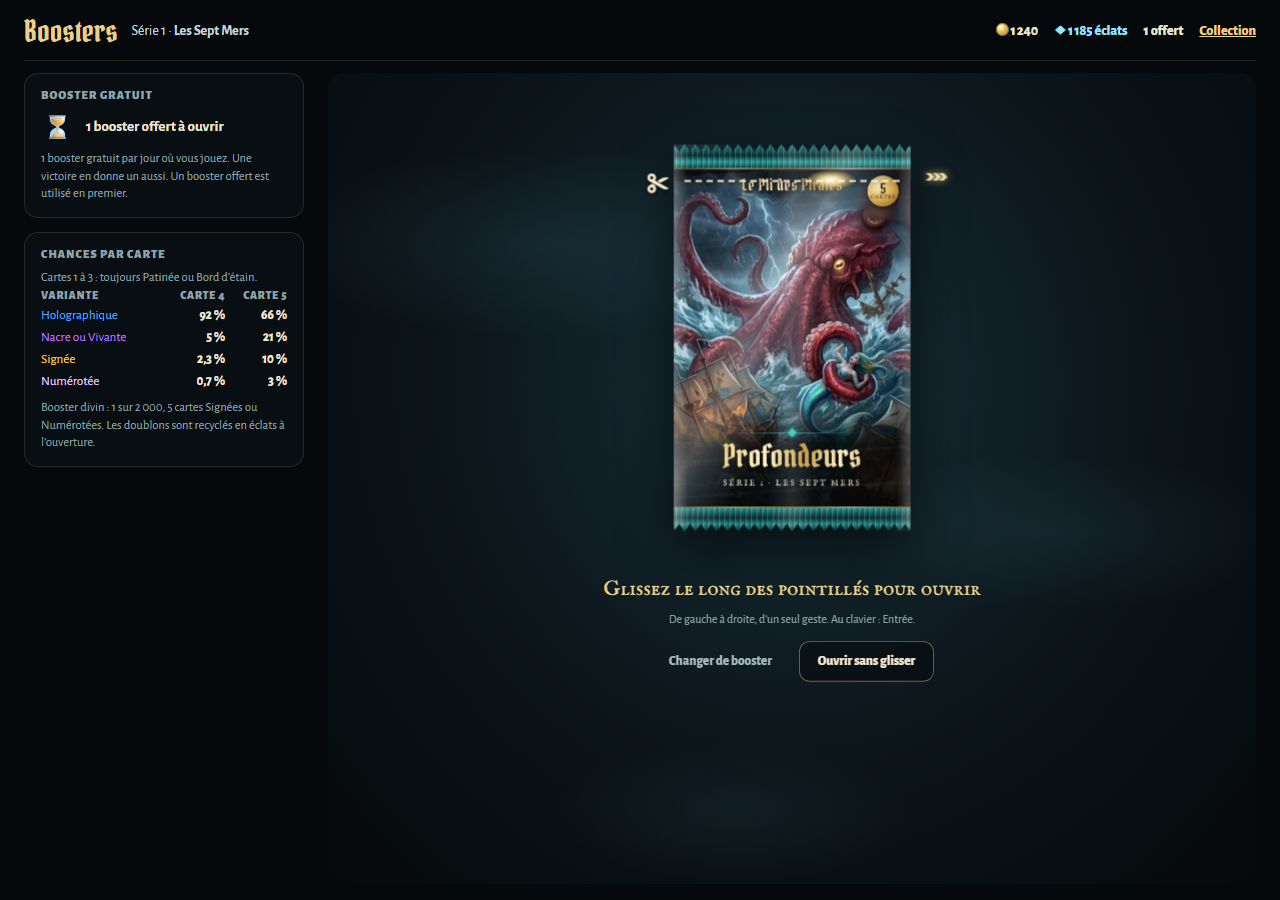
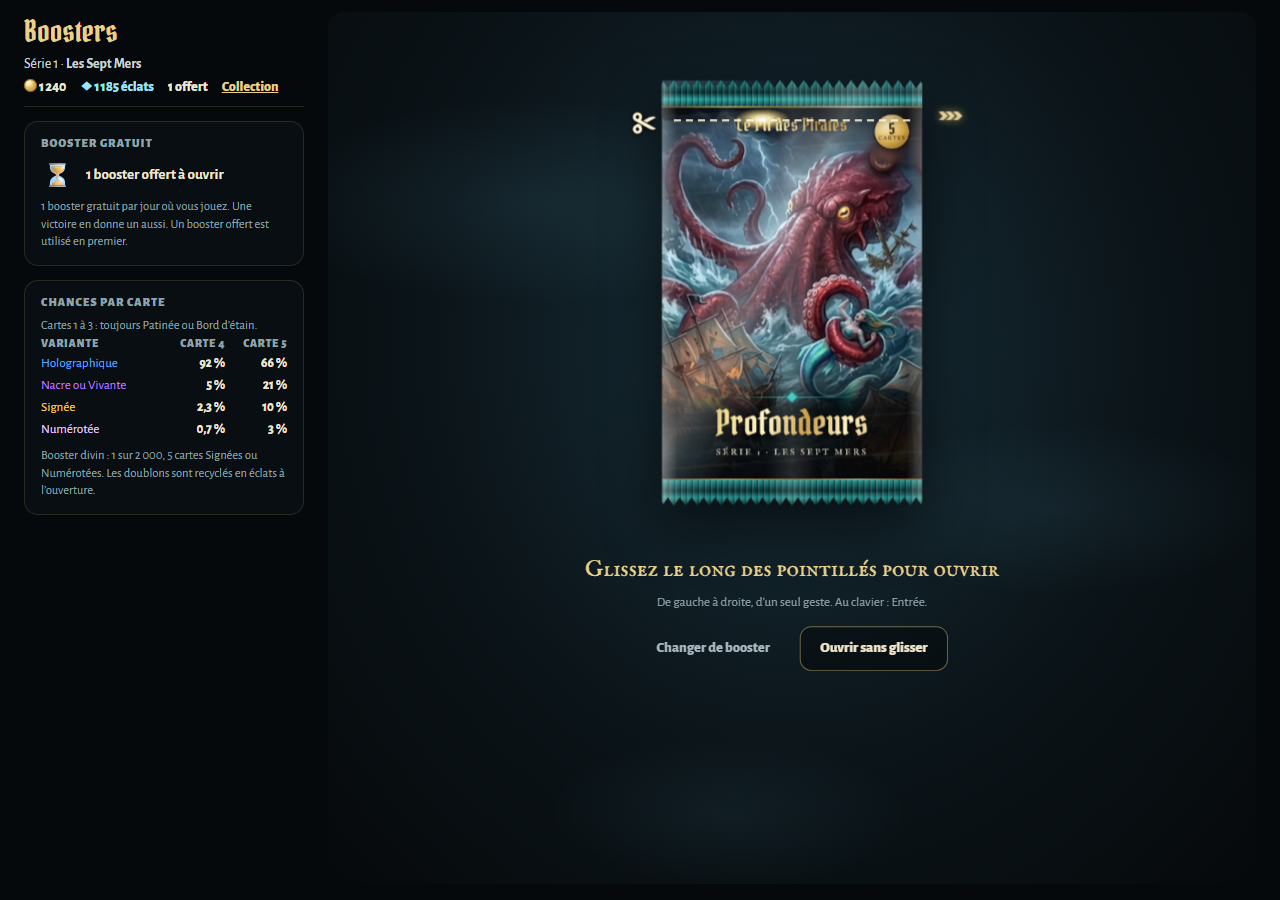
Boosters : son de déchirure, sachets plus grands, animation complète malgré le réglage système
- son : vraie déchirure de papier (craquements sur 0,5 s) au lieu d'une bouffée grave « ballon qui éclate » ; frottement pour retourner la 5e carte ; crissement qui suit la coupe tous les 10 %
- taille : sur grand écran, titre et porte-monnaie dans la colonne de gauche, le composant prend toute la hauteur ; scène mise à l'échelle sans marge (sachet +11 %)
- le composant ne lit plus prefers-reduced-motion (animations de Windows coupées = ouverture escamotée) : attribut reduce posé par le jeu
- Casier, onglet Cartes (sous les dos) : « Ouverture des boosters réduite » (fondu) et « Animations des autres », de nouveau visible depuis que la rubrique des cartes animées est masquée
- tests : réglage système ignoré, réglage du Casier en fondu

diff --git a/web/src/booster/booster-opening.js b/web/src/booster/booster-opening.js
@@ -136,10 +136,11 @@ button{font-family:inherit}
 .tilt .glare{position:absolute;inset:0;border-radius:4%;pointer-events:none;background:radial-gradient(circle at var(--mx) var(--my),rgba(255,255,255,.28),transparent 45%);mix-blend-mode:overlay;opacity:0;transition:opacity .2s}
 .tilt.on .glare{opacity:1}
 .dcard .num{position:absolute;left:81%;top:13.2%;transform:translate(-50%,-50%);font-family:'Pirata One',cursive;font-size:calc(var(--w)*.13);color:#fff4d6;text-shadow:0 0 3px #000}
-@media (prefers-reduced-motion: reduce){.float,.foil,.caus,.grays,.hid .flip,.hid .face.back,.runner,.chev,.dcard .sh{animation:none!important}.flash.go{animation:none}}
-/* mouvement réduit (ajout de l'intégration au jeu) : l'ouverture devient un simple fondu de 300 ms (later() plafonne déjà les attentes à 300 ms) ;
+:host([reduce]) .float,:host([reduce]) .foil,:host([reduce]) .caus,:host([reduce]) .grays,:host([reduce]) .hid .flip,:host([reduce]) .hid .face.back,:host([reduce]) .runner,:host([reduce]) .chev,:host([reduce]) .dcard .sh{animation:none!important}:host([reduce]) .flash.go{animation:none}
+/* mouvement réduit (ajout de l'intégration au jeu) : attribut reduce posé par le jeu (réglage du Casier), le réglage du système est ignoré ;
+   l'ouverture devient un simple fondu de 300 ms (later() plafonne déjà les attentes à 300 ms) ;
    ni bande qui s'envole, ni lumière, ni rayons, ni pile qui monte, ni éclats : rien ne bouge ni ne tourne */
-@media (prefers-reduced-motion: reduce){.opening .lid,.opening .leak,.opening .lrays,.opening.in,.gsp,.stk.rise,.pop,.burst.go,.ring.go,.spark,.ban,.gc,.bar>div{animation:none!important}.opening.in{opacity:0;transition:opacity .3s}.stk.rise{animation:fi .3s ease-out both!important}.tilt{transform:none!important}}
+:host([reduce]) .opening .lid,:host([reduce]) .opening .leak,:host([reduce]) .opening .lrays,:host([reduce]) .opening.in,:host([reduce]) .gsp,:host([reduce]) .stk.rise,:host([reduce]) .pop,:host([reduce]) .burst.go,:host([reduce]) .ring.go,:host([reduce]) .spark,:host([reduce]) .ban,:host([reduce]) .gc,:host([reduce]) .bar>div{animation:none!important}:host([reduce]) .opening.in{opacity:0;transition:opacity .3s}:host([reduce]) .stk.rise{animation:fi .3s ease-out both!important}:host([reduce]) .tilt{transform:none!important}
 `;
 
 const RC = { c: 'rgba(255,244,214,.9)', r: '#4fa8ff', e: '#b77dff', l: '#ffc94a', m: '#e7c6ff' };
@@ -149,7 +150,7 @@ const BURST = {
   l: 'radial-gradient(circle,rgba(255,201,74,.8),transparent 58%)', m: 'radial-gradient(circle,rgba(231,198,255,.75),rgba(155,231,255,.4) 30%,transparent 58%)'
 };
 const h = (tag, cls, html) => { const e = document.createElement(tag); if (cls) e.className = cls; if (html != null) e.innerHTML = html; return e; };
-const reduced = () => window.matchMedia && matchMedia('(prefers-reduced-motion: reduce)').matches;
+// mouvement réduit : attribut reduce, posé par l'application (le réglage du système n'est pas lu ici)
 
 class BoosterOpening extends HTMLElement {
   constructor() {
@@ -168,8 +169,9 @@ class BoosterOpening extends HTMLElement {
     this.renderChoose();
   }
   disconnectedCallback() { this.clear(); this.ro && this.ro.disconnect(); }
-  resize() { const r = this.getBoundingClientRect(), s = Math.min(1.25, r.width / 700, r.height / 920); this.fit.style.transform = `translate(-50%,-50%) scale(${s})`; }
-  later(ms, f) { const k = this.k; this.timers.push(setTimeout(() => { if (this.k === k) f(); }, reduced() ? Math.min(ms, 300) : ms)); }
+  // mise à l'échelle (intégration au jeu) : la scène de 680 × 900 remplit le conteneur sans marge, pour des sachets plus grands
+  resize() { const r = this.getBoundingClientRect(), s = Math.min(1.25, r.width / 680, r.height / 900); this.fit.style.transform = `translate(-50%,-50%) scale(${s})`; }
+  later(ms, f) { const k = this.k; this.timers.push(setTimeout(() => { if (this.k === k) f(); }, this.hasAttribute('reduce') ? Math.min(ms, 300) : ms)); }
   clear() { this.timers.forEach(clearTimeout); this.timers = []; this.k = (this.k || 0) + 1; }
 
   // ---------- rendu d'une carte ----------
@@ -281,7 +283,7 @@ class BoosterOpening extends HTMLElement {
     this.top = 0; this.buildStack(true);
     this.later(1950, () => { this.car.remove(); this.stk.classList.remove('rise'); this.stk.style.zIndex = ''; this.phase = 'stack'; this.showTop(true); });
   }
-  flash() { if (reduced()) return; const f = h('div', 'flash'); this.fit.appendChild(f); void f.offsetWidth; f.classList.add('go'); setTimeout(() => f.remove(), 600); }
+  flash() { if (this.hasAttribute('reduce')) return; const f = h('div', 'flash'); this.fit.appendChild(f); void f.offsetWidth; f.classList.add('go'); setTimeout(() => f.remove(), 600); }
 
   // ---------- 4. pile ----------
   buildStack(rising) {

diff --git a/web/src/pages/casier.ts b/web/src/pages/casier.ts
@@ -10,7 +10,7 @@ import { objectSVG } from '../objects';
 import { ART, backFace } from '../cards';
 import { ANIM, KEY_OF_FILE, attachAnim, detachAnim } from '../animatedCards';
 import { levelFor } from '../xp';
-import { RC, PLQ, RAR_NAME, owns, howText, progressOf, itemsOf, impactSound, setImpactSound, othersAnimated, setOthersAnimated, type Progress } from '../locker';
+import { RC, PLQ, RAR_NAME, owns, howText, progressOf, itemsOf, impactSound, setImpactSound, othersAnimated, setOthersAnimated, boosterReduced, setBoosterReduced, type Progress } from '../locker';
 import { setCleanup } from '../main';
 
 const DEFAULT_LOOK: Look = { skin: 1, hair: 'court', hc: 0, beard: 'none', hat: null, face: null, neck: null, pet: null, bg: 'mer', frame: null };
@@ -141,7 +141,10 @@ export async function casierPage(root: HTMLElement, uid: string, query: URLSearc
     }
     if (s === 'card_back') {
       const list = itemsOf(s).filter(it => keep(has(it))).map(it => tile(it, L().card_back === it.value, has(it), `<span class="ck-back" style="${backStyle(it.value)}">${it.bg ? '' : classic(.413)}</span>`, 'ck-it big')).join('');
-      return `<div class="ck-grid backs">${list}</div><p class="ck-note">Un seul dos à la fois. Il s'applique à toutes vos cartes face cachée ; les faces des cartes ne changent jamais, pour que tout le monde les lise pareil.</p>`;
+      return `<div class="ck-grid backs">${list}</div><p class="ck-note">Un seul dos à la fois. Il s'applique à toutes vos cartes face cachée ; les faces des cartes ne changent jamais, pour que tout le monde les lise pareil.</p>
+        <div class="lbl">Réglages · sur cet appareil</div>
+        <div class="ck-sets"><div class="ck-set"><div><b>Animations des autres</b><span class="lbl">Coupez-les si la partie rame sur votre appareil</span></div><button type="button" class="ck-switch${othersAnimated() ? ' on' : ''}" role="switch" aria-checked="${othersAnimated()}" data-set="oth" aria-label="Voir les animations des autres joueurs"></button></div>
+        <div class="ck-set"><div><b>Ouverture des boosters réduite</b><span class="lbl">Un simple fondu, sans mouvement ni flash</span></div><button type="button" class="ck-switch${boosterReduced() ? ' on' : ''}" role="switch" aria-checked="${boosterReduced()}" data-set="boost" aria-label="Ouverture des boosters réduite"></button></div></div>`;
     }
     if (s === 'card_anim') {
       const prevKey = st.animPrev ?? (L().card_anims[0] || animOwned[0]);
@@ -241,7 +244,7 @@ export async function casierPage(root: HTMLElement, uid: string, query: URLSearc
       st.animPrev = v; change();
     });
     root.querySelectorAll<HTMLButtonElement>('[data-set]').forEach(b => b.onclick = () => {
-      if (b.dataset.set === 'son') setImpactSound(!impactSound()); else setOthersAnimated(!othersAnimated());
+      if (b.dataset.set === 'son') setImpactSound(!impactSound()); else if (b.dataset.set === 'boost') setBoosterReduced(!boosterReduced()); else setOthersAnimated(!othersAnimated());
       render();
     });
     const say = (t: string) => { st.say = t; render(); clearTimeout(sayTimer); sayTimer = setTimeout(() => { st.say = null; if (st.slot === 'reaction') render(); }, 2600); };

diff --git a/web/src/booster.ts b/web/src/booster.ts
@@ -10,6 +10,7 @@ import { esc, toast } from './util';
 import { cardHTML } from './cards';
 import { sfx } from './sfx';
 import type { CallGame } from './pages/collection';
+import { boosterReduced } from './locker';
 import { PACKS, PACK_BY_ID, CARD_BY_ID, VARIANT_INFO, BOOSTER_PRICE, ODDS, SERIES, TIER_OF, NUMBERED_MAX, serialLabel, drawBooster, type Variant } from '@shared/collection.ts';
 
 /** Comptes qui voient le bouton « Essai gratuit » (aussi en développement, ou avec localStorage pli-debug = 1 sur l'appareil). */
@@ -44,11 +45,6 @@ function haptic(kind: 'light' | 'medium' | 'heavy') {
     navigator.vibrate?.(kind === 'light' ? 8 : kind === 'medium' ? 25 : [40, 30, 60]);
   } catch { /* pas de vibration */ }
 }
-/** Sons du composant → sfx.ts. */
-const SFX: Record<string, () => void> = {
-  crinkle: () => sfx.crinkle(), cut: () => sfx.cut(.5), tear: () => sfx.tear(), swipe: () => sfx.fwip(),
-  chime: () => sfx.reveal('r'), chord: () => sfx.reveal('e'), fanfare: () => sfx.reveal('l'),
-};
 
 /** Styles des cartes, partagés (une seule feuille construite) par toutes les cartes rendues dans le composant : ses cartes
  *  vivent dans son Shadow DOM, où game.css ne s'applique pas. Chaque carte a sa propre petite racine fantôme : nos
@@ -144,10 +140,20 @@ export async function boosterPage(root: HTMLElement, query = new URLSearchParams
       coins: w.coins, boosters: w.boosters, shards: w.shards,
       cards: d.cards.map(c => ({ ...c, serial: c.variant === 'numero' ? 1 + Math.floor(Math.random() * NUMBERED_MAX) : null, duplicate: false, shards: 0 })) });
   };
+  // animation complète, quel que soit le réglage du système ; le Casier propose « Ouverture des boosters réduite » (fondu)
+  comp.toggleAttribute('reduce', boosterReduced());
   comp.cardsBase = 'cards/';
   comp.renderCard = renderCard;
   comp.open = essai ? openEssai : openServer;
-  comp.haptics = haptic;
+  // sons du composant → sfx.ts. « tear » sert à la coupe (déchirure du papier) et au retournement de la 5e carte
+  // (frottement) ; le composant ne joue « cut » qu'au premier contact : le crissement suit le doigt grâce à la vibration
+  // légère qu'il envoie tous les 10 % de coupe
+  let cutStep = 0;
+  const SFX: Record<string, () => void> = {
+    crinkle: () => sfx.crinkle(), cut: () => { cutStep = 0; sfx.cut(0); }, tear: () => comp.phase === 'stack' ? sfx.flip() : sfx.rip(),
+    swipe: () => sfx.fwip(), chime: () => sfx.reveal('r'), chord: () => sfx.reveal('e'), fanfare: () => sfx.reveal('l'),
+  };
+  comp.haptics = (kind: 'light' | 'medium' | 'heavy') => { haptic(kind); if (kind === 'light' && comp.phase === 'focus') sfx.cut(Math.min(1, ++cutStep / 10)); };
   comp.sfx = (name: string) => SFX[name]?.();
   // inclinaison des cartes au gyroscope sur téléphone ; iOS demande la permission au premier toucher
   comp.gyro = matchMedia('(pointer: coarse)').matches;

diff --git a/tests/visual/d14b-ouverture.spec.ts b/tests/visual/d14b-ouverture.spec.ts
@@ -108,9 +108,22 @@ test('booster divin signalé discrètement : paillettes, étoiles, annonce au bu
   await expect(page.locator('booster-opening .divb')).toContainText('Booster divin · 1 sur 2 000');
 });
 
-test('mouvement réduit : l’ouverture devient un simple fondu, rien ne flotte ni ne tourne', async ({ page }) => {
+test('réglage système « réduire les animations » ignoré : ouverture complète', async ({ page }) => {
   await page.emulateMedia({ reducedMotion: 'reduce' });
   await openGame(page, 'epique');
+  await expect(page.locator('booster-opening[reduce]')).toHaveCount(0);
+  await page.locator('booster-opening .go').click(); await page.waitForTimeout(400);
+  await page.locator('booster-opening .auto').click();
+  await expect(page.locator('booster-opening .in.opening')).toHaveCount(1);
+  expect(await page.locator('booster-opening .stk').evaluate(e => getComputedStyle(e).animationName), 'la pile monte du sachet').toBe('rise');
+  await page.waitForTimeout(700);
+  await expect(page.locator('booster-opening .car'), 'à 0,7 s, le sachet est encore là').toHaveCount(1);
+});
+
+test('« Ouverture des boosters réduite » (Casier) : simple fondu, rien ne flotte ni ne tourne', async ({ page }) => {
+  await page.addInitScript(() => localStorage.setItem('pli.booster.reduit', '1'));
+  await openGame(page, 'epique');
+  await expect(page.locator('booster-opening[reduce]')).toHaveCount(1);
   const anim = (sel: string) => page.locator(`booster-opening ${sel}`).first().evaluate(e => getComputedStyle(e).animationName);
   expect(await anim('.pw .in'), 'le sachet ne flotte pas').toBe('none');
   await page.locator('booster-opening .go').click(); await page.waitForTimeout(400);

diff --git a/web/src/styles/booster.css b/web/src/styles/booster.css
@@ -12,9 +12,18 @@
 .bo-wallet a.bo-essai.on{border-style:solid;background:rgba(159,227,255,.12)}
 .bo-essai-tag{padding:3px 10px;border-radius:999px;background:#9fe3ff;color:#0b1419;font-size:12.5px;font-weight:900;letter-spacing:.04em}
 .bo .coin{display:inline-block;width:13px;height:13px;border-radius:50%;background:radial-gradient(circle at 35% 30%,#fff2c4 0 12%,#e2bd62 40%,#a77b22 100%);vertical-align:-1px}
-/* le composant prend toute la place restante ; le panneau des chances reste à côté sur grand écran */
+/* grand écran : titre, porte-monnaie et panneaux dans la colonne de gauche ; le composant prend TOUTE la hauteur à droite
+   (sa scène de 680 × 900 est limitée par la hauteur : chaque pixel gagné agrandit les sachets et les cartes) */
 .bo-cols{flex:1;min-height:0;display:grid;grid-template-columns:280px minmax(0,1fr);gap:24px}
 .bo-left{display:flex;flex-direction:column;gap:14px;min-height:0;overflow:auto}
+@media (min-width:1101px){
+  .bo{display:grid;grid-template-columns:280px minmax(0,1fr);grid-template-rows:auto minmax(0,1fr);grid-template-areas:"head comp" "left comp";column-gap:24px}
+  .bo-cols{display:contents}
+  .bo-head{grid-area:head;flex-direction:column;align-items:flex-start;gap:6px;margin-bottom:14px}
+  .bo-wallet{margin-left:0;flex-wrap:wrap;gap:8px 14px}
+  .bo-left{grid-area:left}
+  .bo-comp{grid-area:comp}
+}
 .bo-comp{display:block;height:100%;min-height:0;border-radius:16px;overflow:hidden}
 .bo-panel{border-radius:14px;background:rgba(10,16,20,.72);border:1px solid rgba(234,208,138,.14);padding:14px 16px}
 .bo-lbl{font-size:12px;font-weight:900;letter-spacing:.08em;text-transform:uppercase;color:#8fa3ab;margin-bottom:8px}

diff --git a/web/src/sfx.ts b/web/src/sfx.ts
@@ -147,6 +147,15 @@ export const sfx = {
   crinkle: () => { for (let i = 0; i < 5; i++) swish(i * .045 + Math.random() * .02, .06, 3000 + Math.random() * 2500, .12); },
   cut: (p: number) => swish(0, .05, 1400 + Math.min(1, Math.max(0, p)) * 3200, .08),
   tear: () => { swish(0, .32, 2200, .26); swish(.05, .2, 900, .16); breath(.1, .9, .08); },
+  /** Déchirure du sachet : une vingtaine de petits craquements aigus qui courent sur une demi-seconde (le papier qui se
+   *  sépare), puis un souffle léger ; aucune bouffée grave (l'ancien tear sonnait comme un ballon qui éclate). */
+  rip: () => {
+    let t = 0;
+    for (let i = 0; i < 22; i++) { const k = i / 21; swish(t, .012 + Math.random() * .016, 2600 + Math.random() * 3200, .05 + .05 * Math.sin(Math.PI * k)); t += .012 + .018 * Math.abs(k - .45) + Math.random() * .01; }
+    breath(.05, .55, .025);
+  },
+  /** Carte retournée : deux frottements doux. */
+  flip: () => { swish(0, .08, 2600, .07); swish(.11, .07, 1900, .05); },
   fwip: () => swish(0, .13, 3400, .17),
   reveal: (tier: string) => {
     if (tier === 'r') [1319, 1760, 2349].forEach((f, i) => tone(i * .07, .5, f, .035, 'triangle'));

diff --git a/web/src/locker.ts b/web/src/locker.ts
@@ -54,3 +54,8 @@ export function setImpactSound(on: boolean) { try { localStorage.setItem(K_SON, 
 /** « Animations des autres » : le réglage Cartes animées de la table (toutes / les miennes). */
 export const othersAnimated = () => getAnimMode() === 'toutes';
 export function setOthersAnimated(on: boolean) { setAnimMode(on ? 'toutes' : 'miennes'); }
+const K_BOOST = 'pli.booster.reduit';
+/** « Ouverture des boosters réduite » : simple fondu, sans mouvement. L'écran Booster ignore le réglage du système
+ *  (animations de Windows coupées = ouverture escamotée) : c'est ce réglage du jeu qui décide (sur cet appareil). */
+export function boosterReduced(): boolean { try { return localStorage.getItem(K_BOOST) === '1'; } catch { return false; } }
+export function setBoosterReduced(on: boolean) { try { localStorage.setItem(K_BOOST, on ? '1' : '0'); } catch { /* stockage indisponible */ } }
